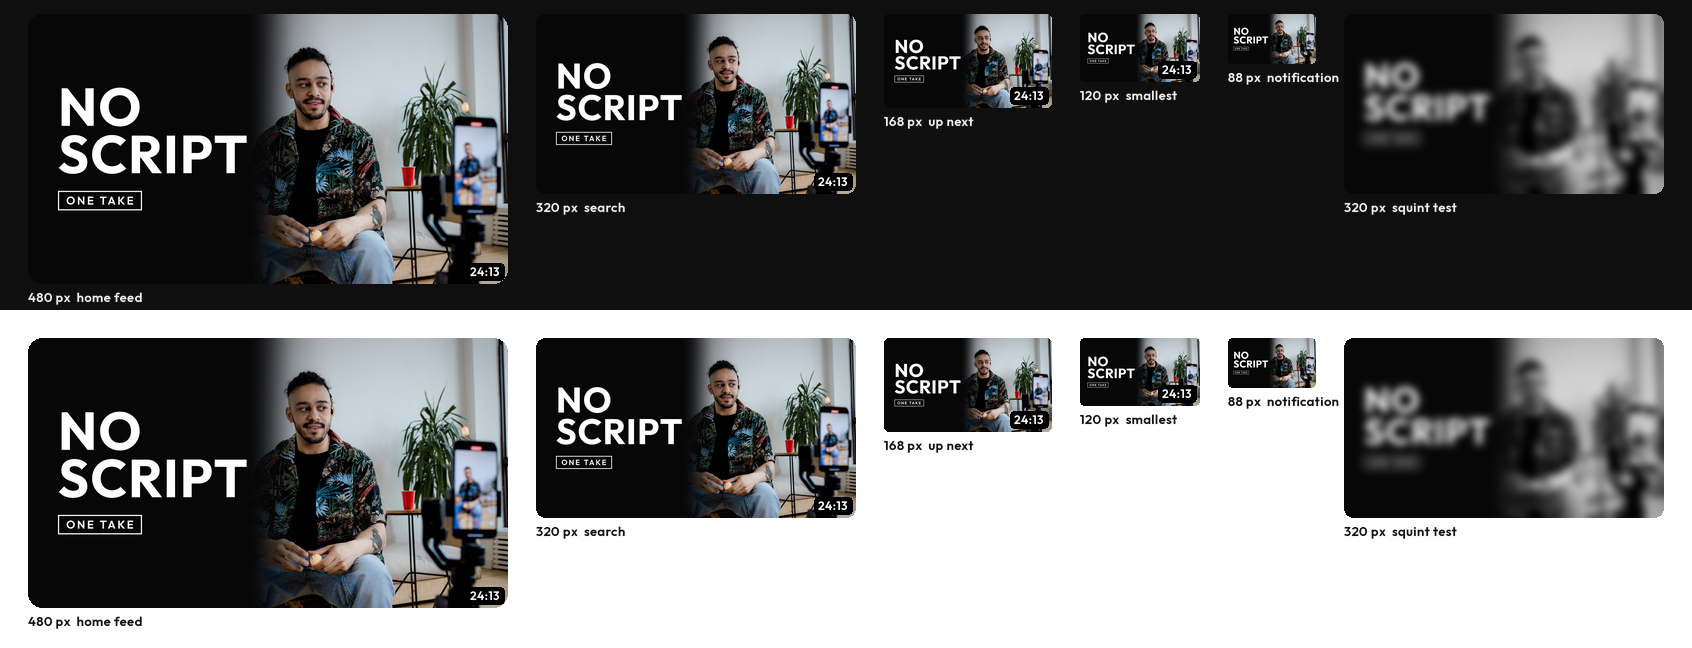
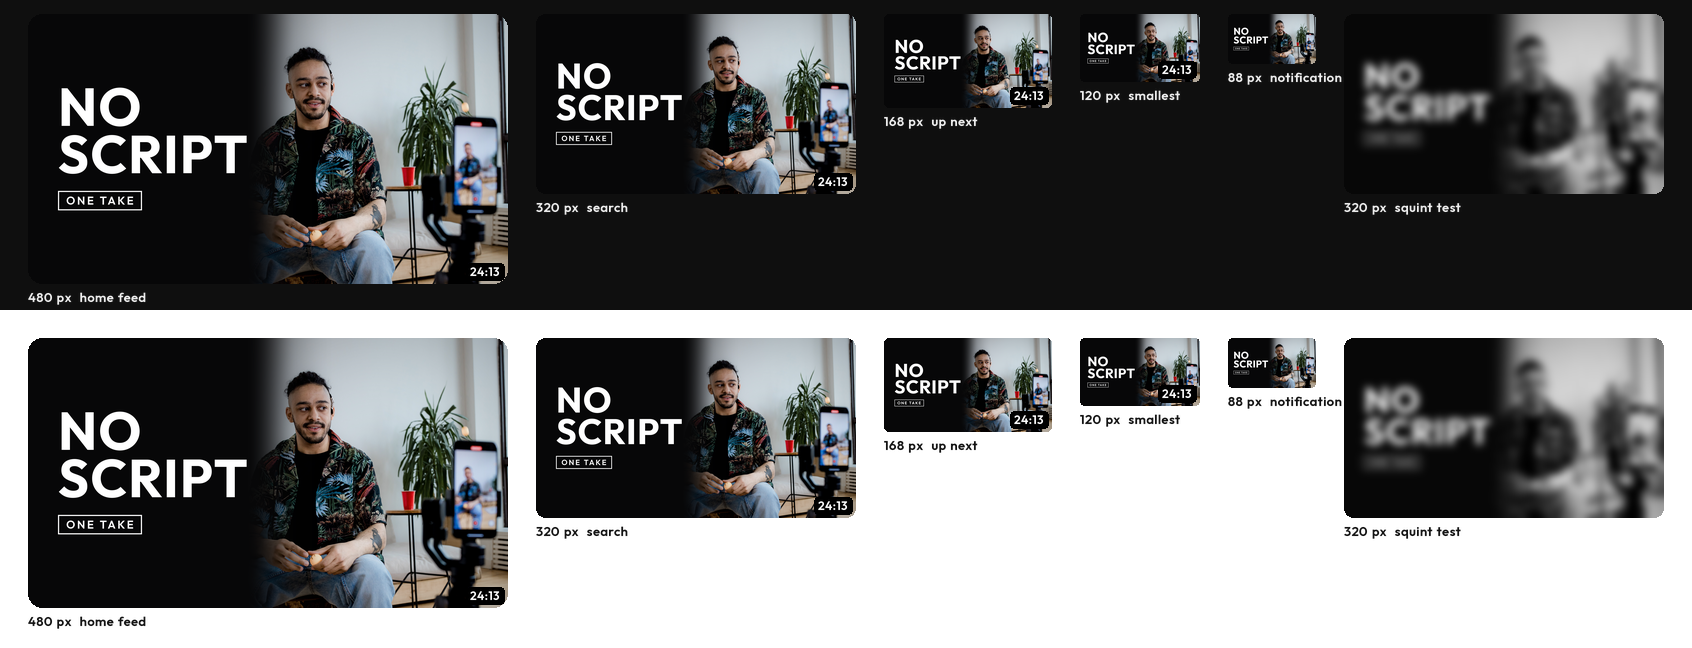
clean-thumbnail v0.8.1: upload-safe font names, caption spacing

diff --git a/skill/clean-thumbnail/scripts/thumb.py b/skill/clean-thumbnail/scripts/thumb.py
@@ -39,7 +39,7 @@ import sys
 import numpy as np
 from PIL import Image, ImageChops, ImageColor, ImageDraw, ImageFile, ImageFilter, ImageFont, ImageOps
 
-__version__ = "0.8.0"
+__version__ = "0.8.1"
 
 SIZES = {"720p": (1280, 720), "1080p": (1920, 1080), "1440p": (2560, 1440), "4k": (3840, 2160)}
 PHONE_SIZE = (1280, 720)
@@ -1129,8 +1129,9 @@ def _fkw(font):
     return {"features": LAYOUT_FEATURES} if LAYOUT_FEATURES and raqm else {}
 
 
-def _advances(font, text, tracking):
-    """Per-character advance for tracked text, keeping each pair's kerning (AV, TO, YO)."""
+def _advances(font, text, tracking, space=0.0):
+    """Per-character advance for tracked text, keeping each pair's kerning (AV, TO, YO). `space` is a
+    minimum advance for a word space (preview captions: some fonts' spaces vanish at 12 px)."""
     kw = _fkw(font)
     w = [font.getlength(c, **kw) for c in text]
     out = []
@@ -1138,23 +1139,25 @@ def _advances(font, text, tracking):
         a = w[i]
         if i + 1 < len(text):
             a += tracking + font.getlength(text[i:i + 2], **kw) - w[i] - w[i + 1]
+        if text[i] == " ":
+            a = max(a, space)
         out.append(a)
     return out
 
 
-def text_width(font, text, tracking):
+def text_width(font, text, tracking, space=0.0):
     if not text:
         return 0.0
-    if tracking:
-        return sum(_advances(font, text, tracking))
+    if tracking or space:
+        return sum(_advances(font, text, tracking, space))
     return font.getlength(text, **_fkw(font))
 
 
-def draw_text(draw, x, baseline, text, font, tracking, fill):
-    if not tracking:
+def draw_text(draw, x, baseline, text, font, tracking, fill, space=0.0):
+    if not tracking and not space:
         draw.text((x, baseline), text, font=font, fill=fill, anchor="ls", **_fkw(font))
         return
-    for c, a in zip(text, _advances(font, text, tracking)):
+    for c, a in zip(text, _advances(font, text, tracking, space)):
         draw.text((x, baseline), c, font=font, fill=fill, anchor="ls", **_fkw(font))
         x += a
 
@@ -2366,6 +2369,7 @@ def preview_font(size):
 
 PREVIEW_SUPERSAMPLE = 3  # small preview text is drawn this much larger and scaled down: even spacing at 12-13 px
 PREVIEW_TRACKING = 0.03  # em, so words and figures of the small text don't run together
+PREVIEW_WORD_SPACE = 0.3  # em, minimum word space: Outfit's own is 0.19 em, and without raqm no kerning helps
 # YouTube's duration badge as the previews draw it: fixed px whatever the tile size. Canvas.timestamp_zone
 # is this badge on the smallest tile type stays clear of (the 168 px "up next" tile).
 BADGE = {"text": "24:13", "size": 12, "pad": 4, "height": 17, "inset": 4, "radius": 4, "tile": 168}
@@ -2381,21 +2385,21 @@ def preview_text_mask(text, size):
     PREVIEW_TRACKING and scaled down with LANCZOS."""
     k = PREVIEW_SUPERSAMPLE
     f = preview_font(size * k)
-    trk = PREVIEW_TRACKING * size * k
+    trk, gap = PREVIEW_TRACKING * size * k, PREVIEW_WORD_SPACE * size * k
     asc, desc = f.getmetrics() if hasattr(f, "getmetrics") else (size * k, size * k // 3)
     top = (-asc) % k + k  # the baseline lands on a whole pixel after scaling down
-    w = int(text_width(f, text, trk)) + 4 * k
+    w = int(text_width(f, text, trk, gap)) + 4 * k
     h = top + asc + desc + k
     w, h = w + (-w) % k, h + (-h) % k
     m = Image.new("L", (w, h), 0)
-    draw_text(ImageDraw.Draw(m), 2 * k, top + asc, text, f, trk, 255)
+    draw_text(ImageDraw.Draw(m), 2 * k, top + asc, text, f, trk, 255, gap)
     return m.resize((w // k, h // k), Image.LANCZOS), 2, (top + asc) // k
 
 
 def preview_text_width(text, size):
     """Advance width of preview text at 1x, as preview_text draws it."""
     k = PREVIEW_SUPERSAMPLE
-    return text_width(preview_font(size * k), text, PREVIEW_TRACKING * size * k) / k
+    return text_width(preview_font(size * k), text, PREVIEW_TRACKING * size * k, PREVIEW_WORD_SPACE * size * k) / k
 
 
 def preview_text(img, x, baseline, text, size, fill):

diff --git a/tests/test_thumb.py b/tests/test_thumb.py
@@ -1031,6 +1031,9 @@ class Fonts(unittest.TestCase):
             self.assertIn("clean-thumbnail/fonts/" + e["file"], names)
             self.assertIn("clean-thumbnail/fonts/%s/OFL.txt" % os.path.dirname(e["file"]), names)
         self.assertIn("clean-thumbnail/fonts/catalog.json", names)
+        import re
+        unsafe = [n for n in names if not re.fullmatch(r"[A-Za-z0-9._/-]+", n)]
+        self.assertEqual(unsafe, [])  # claude.ai refuses a zip with "[wght]" or similar in any path
 
 
 def eclipse(w=1920, h=1080):
@@ -1456,7 +1459,7 @@ class Crop(unittest.TestCase):
             self.assertEqual(code, 0, text)
             self.assertNotIn("warning:", text)
             self.assertIn("title type: bundled font outfit (Outfit, geometric modern sans), tracking 0.12 em", text)
-            self.assertIn("Outfit[wght].ttf@Light", text)
+            self.assertIn("Outfit-VariableFont_wght.ttf@Light", text)
             for name, size in (("ds2_4x5.jpg", (1440, 1800)), ("ds2_4x5_1080.jpg", (1080, 1350)),
                                ("ds2_9x16.jpg", (1080, 1920))):
                 with Image.open(os.path.join(d, name)) as im:
@@ -1846,7 +1849,16 @@ class DurationBadge(unittest.TestCase):
 
     def test_small_preview_text_keeps_its_word_spaces(self):
         gap = thumb.preview_text_width("squint test", 13) - thumb.preview_text_width("squinttest", 13)
-        self.assertGreaterEqual(gap, 3.9)  # Outfit's narrow space (2.5 px at 13 px) plus the tracking
+        # Outfit's own space is 2.5 px at 13 px; the preview minimum holds with or without raqm kerning
+        self.assertGreaterEqual(gap, thumb.PREVIEW_WORD_SPACE * 13 - 0.01)
+        from PIL import ImageFont
+        basic = ImageFont.truetype(thumb.bundled_spec("outfit").partition("@")[0], 39,
+                                   layout_engine=ImageFont.Layout.BASIC)  # how macOS CI's Pillow lays text out
+        gap_basic = thumb.text_width(basic, "squint test", 0.03 * 39, 0.3 * 39) - thumb.text_width(basic, "squinttest", 0.03 * 39, 0.3 * 39)
+        self.assertGreaterEqual(gap_basic, 0.3 * 39 - 0.01)
+        tracked = thumb.preview_text_width("24:13", 12)
+        plain = thumb.text_width(thumb.preview_font(36), "24:13", 0) / 3
+        self.assertGreater(tracked - plain, 1.0)  # the badge figures and colon get air at 12 px
         m, dx, base = thumb.preview_text_mask("24:13", 12)
         self.assertGreater(np.asarray(m).max(), 200)
         self.assertLess(abs(m.getbbox()[2] - dx - thumb.preview_text_width("24:13", 12)), 3)
@@ -1862,7 +1874,7 @@ class SystemFonts(unittest.TestCase):
         self.bodoni = os.path.join(self.tmp, "BOD_R.TTF")
         self.bahn = os.path.join(self.tmp, "bahnschrift.ttf")
         shutil.copy(os.path.join(thumb.FONT_ROOT, "slab", "ZillaSlab-Bold.ttf"), self.bodoni)
-        shutil.copy(os.path.join(thumb.FONT_ROOT, "oswald", "Oswald[wght].ttf"), self.bahn)  # has SemiBold, Bold
+        shutil.copy(os.path.join(thumb.FONT_ROOT, "oswald", "Oswald-VariableFont_wght.ttf"), self.bahn)  # has SemiBold, Bold
         self.saved = thumb._font_index
         thumb._font_index = {"bod_r.ttf": self.bodoni, "bahnschrift.ttf": self.bahn}
 
@@ -1900,7 +1912,7 @@ class SystemFonts(unittest.TestCase):
         _, info = thumb.render(half_busy(), "SIMON", "Parry only", title_font="cinzel", label_font="outfit@Bold",
                                lead="title", system_fonts=True)
         self.assertIn("Cinzel", info["fonts"][0])
-        self.assertTrue(info["fonts"][1].endswith("Outfit[wght].ttf@Bold"), info["fonts"][1])
+        self.assertTrue(info["fonts"][1].endswith("Outfit-VariableFont_wght.ttf@Bold"), info["fonts"][1])
 
     def test_cli_flag_and_channel_key(self):
         with tempfile.TemporaryDirectory() as d:

diff --git a/tools/build_zip.py b/tools/build_zip.py
@@ -4,15 +4,37 @@ The zip holds the skill folder at its root (clean-thumbnail/SKILL.md), which is
 what skill uploaders expect. Run: python tools/build_zip.py
 """
 import os
+import re
+import sys
 import zipfile
 
 ROOT = os.path.dirname(os.path.dirname(os.path.abspath(__file__)))
 SKILL = os.path.join(ROOT, "skill", "clean-thumbnail")
 SKIP_DIRS = {"__pycache__", "node_modules", ".pytest_cache"}
 SKIP_FILES = {".DS_Store"}
+# claude.ai rejects archive paths with other characters ("[wght]" in a font name was enough)
+SAFE_PATH = re.compile(r"[A-Za-z0-9._/-]+")
+
+
+def unsafe_paths():
+    """Paths inside the skill folder that skill uploaders would refuse."""
+    bad = []
+    for base, dirs, files in os.walk(SKILL):
+        dirs[:] = [d for d in dirs if d not in SKIP_DIRS]
+        for f in files:
+            rel = os.path.relpath(os.path.join(base, f), SKILL).replace(os.sep, "/")
+            if f not in SKIP_FILES and not f.endswith(".pyc") and not SAFE_PATH.fullmatch(rel):
+                bad.append(rel)
+    return sorted(bad)
 
 
 def main():
+    bad = unsafe_paths()
+    if bad:
+        print("refusing to build: these paths have characters skill uploaders reject (use A-Z a-z 0-9 . _ - /):")
+        for b in bad:
+            print("  " + b)
+        return 1
     os.makedirs(os.path.join(ROOT, "dist"), exist_ok=True)
     out = os.path.join(ROOT, "dist", "clean-thumbnail.zip")
     count = 0
@@ -29,7 +51,8 @@ def main():
         z.write(os.path.join(ROOT, "LICENSE"), "clean-thumbnail/LICENSE")  # MIT text for the code
         count += 1
     print("wrote %s (%d files)" % (out, count))
+    return 0
 
 
 if __name__ == "__main__":
-    main()
+    sys.exit(main())

diff --git a/tools/mutate.py b/tools/mutate.py
@@ -169,6 +169,8 @@ MUTANTS = [
      "DurationBadge.test_right_side_type_keeps_clear_of_the_badge_at_168px_and_up"),
     ("small preview text untracked", "PREVIEW_TRACKING = 0.03", "PREVIEW_TRACKING = 0.0",
      "DurationBadge.test_small_preview_text_keeps_its_word_spaces"),
+    ("caption word space ignored", "            a = max(a, space)", "            pass",
+     "DurationBadge.test_small_preview_text_keeps_its_word_spaces"),
 ]
 
 

diff --git a/skill/clean-thumbnail/SKILL.md b/skill/clean-thumbnail/SKILL.md
@@ -5,7 +5,7 @@ license: MIT for the code; the bundled fonts are SIL OFL 1.1 (fonts/*/OFL.txt)
 compatibility: Python 3.8+ with numpy and Pillow. Uses its 16 bundled OFL fonts by default (Playfair Display and Outfit for the default title and label), so the same command gives the same type on every OS; --system-fonts opts into installed faces (Bodoni MT, Bahnschrift, Didot), and any font file can be passed in. Optional rembg for removing backgrounds from subject photos.
 metadata:
   author: Rizwan Ahmed
-  version: "0.8.0"
+  version: "0.8.1"
 ---
 
 # Clean thumbnail
